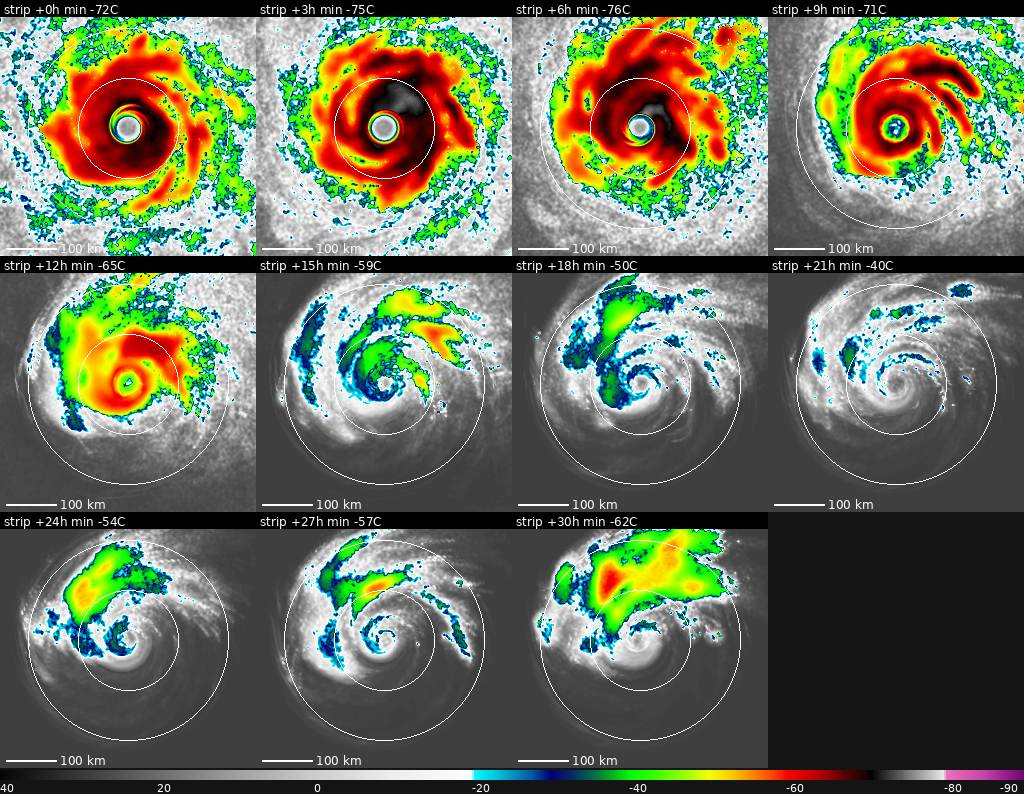
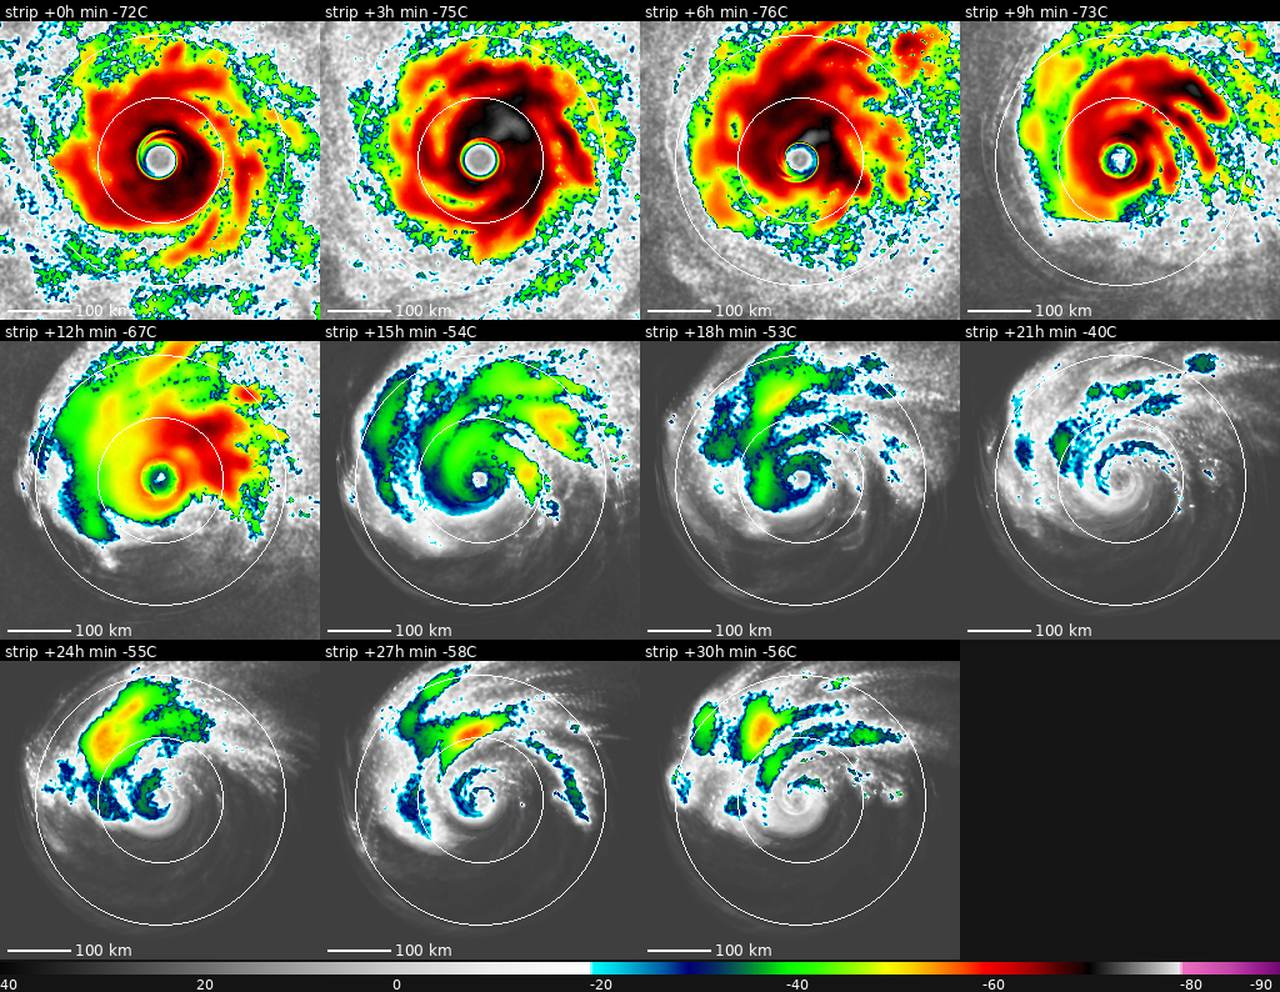
Infrared revamp: tests for bursts, the eye, the canopy, smooth tops, stripping and the transition (nest_ir.mjs), the weak-storm checks over three storms, floater checks in a chosen environment, the hour of day told to the nest, mutants G27-G63 and H14, notes part 3, README, plan
Claude-Session: https://claude.ai/code/session_01CqoLKiBUKd6ECaPquQLPzs

diff --git a/src/storm-late.js b/src/storm-late.js
@@ -138,7 +138,7 @@ const STORM_API = {
   floaterState() {                                                      // what the radar floater is doing (tests and tools)
     if (!flOn || !flNest) return { on: false };
     const n = flNest, f = n.cur || n.f0; let rmax = 0, dmax = -99, cells = 0; for (let k = 0; k < n.rc.length; k++) { if (n.rc[k] > rmax) rmax = n.rc[k]; const d = HFNest.dbzOf(n.rc[k], n.rs[k]); if (d > dmax) dmax = d; if (d > 20) cells++; }
-    return { on: true, id: flId, spin: flSpinN / FL_SPIN, speed: flSpeed, rate: FL_SPEEDS[flSpeed], play: flPlay, minutes: flMinutes(), t: n.t, steps: n.steps, site: flSite ? flSite.name : null, tilt: flTilt, product: flProd, gone: flGone, g: n.g, vNest: n.vNest * n.m, vTarget: f.vmax * n.m, scale: n.m, cellKm: 2 * n.m, view: flView, tbMin: flTbMin, acc: flAcc, gone: flGone, rcMax: rmax, dbzMax: dmax, cells, clat: f.clat, clon: f.clon, hour: simHour, utc: n.f0 && n.f0.utc != null ? n.f0.utc : null, strip: n.strip, bursts: n.bs.filter((b) => b.t >= 0).length, eyeFill: n.ef, sites: flSites.map((c) => c.name), text: $('fl-time').textContent, sub: $('fl-sub').textContent };
+    return { on: true, id: flId, spin: flSpinN / FL_SPIN, speed: flSpeed, rate: FL_SPEEDS[flSpeed], play: flPlay, minutes: flMinutes(), t: n.t, steps: n.steps, site: flSite ? flSite.name : null, tilt: flTilt, product: flProd, gone: flGone, g: n.g, vNest: n.vNest * n.m, vTarget: f.vmax * n.m, scale: n.m, cellKm: 2 * n.m, view: flView, tbMin: flTbMin, acc: flAcc, gone: flGone, rcMax: rmax, dbzMax: dmax, cells, clat: f.clat, clon: f.clon, hour: simHour, utc: n.f0 && n.f0.utc != null ? n.f0.utc : null, clockUtc: (() => { const d = simDate(simHour); return d.getUTCHours() + d.getUTCMinutes() / 60; })(), strip: n.strip, bursts: n.bs.filter((b) => b.t >= 0).length, eyeFill: n.ef, sites: flSites.map((c) => c.name), text: $('fl-time').textContent, sub: $('fl-sub').textContent };
   },
   floaterSet(o) { if (o.speed != null) { flSpeed = Math.max(0, Math.min(FL_SPEEDS.length - 1, o.speed)); flSpeedUI(); } if (o.play != null) { flPlay = !!o.play; flSetPlayUI(); } if (o.site !== undefined) { $('fl-site').value = o.site == null ? '' : String(o.site); $('fl-site').onchange(); } if (o.tilt != null) { $('fl-tilt').value = String(o.tilt); $('fl-tilt').onchange(); } if (o.product) { $('fl-prod').value = o.product; $('fl-prod').onchange(); } if (o.view) { $('fl-view').value = o.view; $('fl-view').onchange(); } flDirty = true; return true; },
   floaterCoast() {                                                                                      // tests: the outline of the land as it is drawn on a blank canvas (white core pixels, dark edge pixels)

diff --git a/docs/ir-research.md b/docs/ir-research.md
@@ -193,7 +193,7 @@ What the notes above asked for was done in `src/storm-nest.js` (the picture and 
 | **3. the canopy** | the cirrus' outflow, life and sinking follow the storm's strength and size (`canopyNumbers`: `ciOutK`, `ciLife`, `ciSink`, `ciLo`, `ciSz`), the blurred rain is a source of cirrus too (`ciSrc`: an anvil is wider than its cell), the eye is kept clear of it, and a strong storm is found with its canopy already spread (`initCanopy`: the plateau of the real majors); the tops are capped near -86 C (`capZ`) |
 | **4. smooth tops** | the deep cloud is averaged over 4 cells with only the cold pixels counting (`irSmooth`: `irBlur`, `irSm`), what texture is left is 0.5 C (1.3 C in a weak storm: `irTx`) |
 | **5. a transition** | no eye (the window shuts between a transition of 0.05 and 0.35), no bursts, the vortex's eye clearing gives way to it, the dry slot is clear of convection of every kind, and the shield is made of **fine streaks along the flow aloft** (`irStreak`, 1.5 C) |
-| **6. shear stripping** | the strip state (`strip`: shear in kt, raised 80 % of the way a dry air is below 62 % humidity, over 17 to 30 kt, 2.5 h to strip, 6 h to recover) takes the eyewall's supply and the vortex's stratiform deck to 3 %, clouds the eye over (the fill), shortens the cirrus' life, stops the efficiency from making up for it and holds the next burst for 12 hours after the stripping begins (`bHold`): the swirl is bare |
+| **6. shear stripping** | the strip state (`strip`: shear in kt, raised by up to 15 % where the air is dry (under 60 % humidity), over 22 to 36 kt, 2.5 h to strip, 6 h to recover) takes the eyewall's supply and the vortex's stratiform deck to 3 %, clouds the eye over (the fill), shortens the cirrus' life, stops the efficiency from making up for it and holds the next burst for 12 hours after the stripping begins (`bHold`): the swirl is bare |
 | **7. size** | the canopy's speed (size^0.8), life (size^0.7), reach (`ciLo` x size) and the initial plateau (size) follow the engine's storm size (`sz`, from 0.4 to 1.8 of 150 km) |
 
 ### Before and after, in the model's 512 km box (the real storms from part 2)
@@ -215,7 +215,7 @@ Median over the frames of each lab storm (`tools/ir_research/scenarios.json`, on
 | model TS 45 kt, before | 135 / 35 / 6 | -66 -68 -68 -68 -65 -61 -58 -54 -51 -40 -18 | |
 | **model TS, after** | **102 / 19 / 1** (up to 135 / 58 / 12 in a burst) | **-64 -64 -63 -62 -62 -58 -55 -47 -43 -29 -1** | 0.31 |
 
-The eye of the model's major hurricane is +14 to +17 C (the real strong storms: +11 to +21), +4 to -18 C while it fills (real: -17 to +14 while intensifying), the ramp is 17, 11, -18, -51, -68, -70 C by 10 km ring (real peak: 18, 10, -18, -55, -70, -72); the coldest top is -75 to -78 C (real: -72 to -86 C). The robust texture of the hurricanes is 0.25 (real 0.27 to 0.56), of the weak storms 0.31 to 0.34 (real 0.42 to 0.75). A stripped hurricane (`model_strip.jpg`) loses its eye (clouded over), then its eyewall, then its canopy: the area colder than -60 C goes 45k -> 23k -> 5k -> 0 km2 in three-hour steps (the shear rising to 14 m/s) and stays at nothing for the next 18 hours, the area colder than -40 C from 106k to 0-14k, as Nolo's did on 29 Sep - 1 Oct; the transition (`model_et.jpg`: 28 N to 50 N over 72 hours) goes from a symmetric hurricane to a comma with a clear dry slot, no eye after 36 hours, tops -44 to -58 C in fine streaks and no area colder than -60 C from the 24th hour.
+The eye of the model's major hurricane is +14 to +17 C (the real strong storms: +11 to +21), +4 to -18 C while it fills (real: -17 to +14 while intensifying), the ramp is 17, 11, -18, -51, -68, -70 C by 10 km ring (real peak: 18, 10, -18, -55, -70, -72); the coldest top is -75 to -78 C (real: -72 to -86 C). The robust texture of the hurricanes is 0.25 (real 0.27 to 0.56), of the weak storms 0.31 to 0.34 (real 0.42 to 0.75). A stripped hurricane (`model_strip.jpg`) loses its eye (clouded over), then its eyewall, then its canopy: the area colder than -60 C goes 45k -> 38k -> 24k -> 7k -> 0 km2 in three-hour steps (the shear rising from 2.5 to 16 m/s) and stays at nothing for the next 15 hours, the area colder than -40 C from 106k to 0-21k, as Nolo's did on 29 Sep - 1 Oct; the transition (`model_et.jpg`: 28 N to 50 N over 72 hours) goes from a symmetric hurricane to a comma with a clear dry slot, no eye after 36 hours, tops -44 to -58 C in fine streaks and no area colder than -60 C from the 24th hour.
 
 Pictures of the model (the same palette, 2 km pixels, the 100 and 200 km rings; `model_large.jpg` at 4 km): `img/model_td.jpg` (48 hours of a sheared depression: a burst 100 to 250 km downshear of a bare swirl, a new one every 6 to 24 hours), `model_ts.jpg`, `model_ri.jpg` (the eye filled for a day, clear from the 30th hour), `model_major.jpg`, `model_strip.jpg`, `model_et.jpg`, `model_compact.jpg`, `model_large.jpg`.
 
